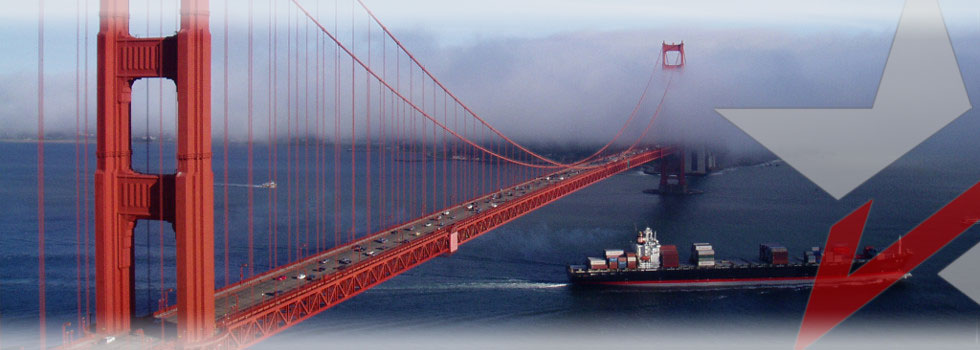
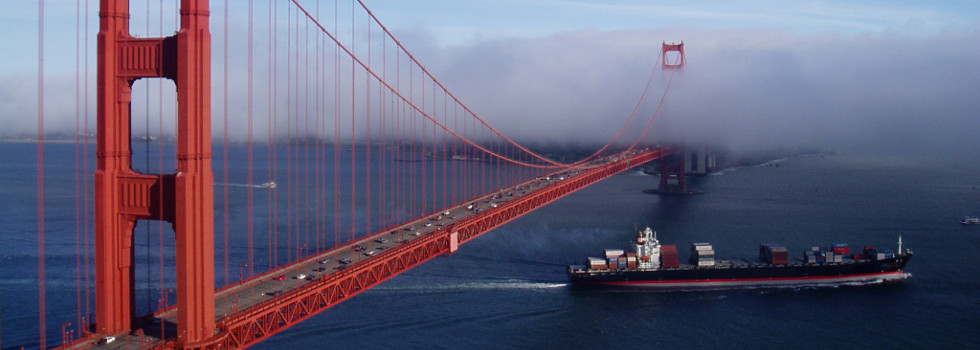
hero box update

Changed region(s): [[0.0, 0.1429, 1.0, 1.0], [0.0, 0.0, 1.0, 0.1143]]

diff --git a/_site/css/bootstrap.min.css b/_site/css/bootstrap.min.css
@@ -6446,7 +6446,8 @@ button.close {
     padding-bottom:20px;
     color:#fff;
     text-align:center;
-    text-shadow:0 1px 2px rgba(0,0,0,.6)
+    text-shadow:0 1px 2px rgba(0,0,0,.6);
+        background-color: #00ff00;
 }
 
 .carousel-caption .btn {
@@ -6458,7 +6459,8 @@ button.close {
     width:30px;
     height:30px;
     margin-top:-15px;
-    font-size:30px
+    font-size:30px;
+        background-color: #00ff00;
 }
 
 .carousel-control .glyphicon-chevron-left,.carousel-control .icon-prev {
@@ -6472,7 +6474,8 @@ button.close {
 .carousel-caption {
     right:20%;
     left:20%;
-    padding-bottom:30px
+    padding-bottom:30px;
+        background-color: #00ff00;
 }
 
 .carousel-indicators {

diff --git a/css/bootstrap.min.css b/css/bootstrap.min.css
@@ -6446,7 +6446,8 @@ button.close {
     padding-bottom:20px;
     color:#fff;
     text-align:center;
-    text-shadow:0 1px 2px rgba(0,0,0,.6)
+    text-shadow:0 1px 2px rgba(0,0,0,.6);
+        background-color: #00ff00;
 }
 
 .carousel-caption .btn {
@@ -6458,7 +6459,8 @@ button.close {
     width:30px;
     height:30px;
     margin-top:-15px;
-    font-size:30px
+    font-size:30px;
+        background-color: #00ff00;
 }
 
 .carousel-control .glyphicon-chevron-left,.carousel-control .icon-prev {
@@ -6472,7 +6474,8 @@ button.close {
 .carousel-caption {
     right:20%;
     left:20%;
-    padding-bottom:30px
+    padding-bottom:30px;
+        background-color: #00ff00;
 }
 
 .carousel-indicators {

diff --git a/_site/index.html b/_site/index.html
@@ -149,7 +149,7 @@
           </div>
             </div>
            <div class="item">
-             <img src="/images/dc.jpg" alt="Washington DC"  />
+             <img src="/images/traingrain.jpg" alt="Grain silo and train"  />
              <div class="carousel-caption">
             <h3 class="trn">They Chose the USA</h3>
             <p class="trn">Learn why business is choosing America to expand and invest</p>

diff --git a/_site/stylesheets/bootstrap.min.css b/_site/stylesheets/bootstrap.min.css
@@ -6455,7 +6455,8 @@ button.close {
     padding-bottom:20px;
     color:#fff;
     text-align:center;
-    text-shadow:0 1px 2px rgba(0,0,0,.6)
+    text-shadow:1px 2px 1px rgba(0,0,0,.9);
+background-color: rgba(0,0,0,0.3) ;
 }
 
 .carousel-caption .btn {

diff --git a/stylesheets/bootstrap.min.css b/stylesheets/bootstrap.min.css
@@ -6455,7 +6455,8 @@ button.close {
     padding-bottom:20px;
     color:#fff;
     text-align:center;
-    text-shadow:0 1px 2px rgba(0,0,0,.6)
+    text-shadow:1px 2px 1px rgba(0,0,0,.9);
+background-color: rgba(0,0,0,0.3) ;
 }
 
 .carousel-caption .btn {

diff --git a/_posts/2015-02-02-events.md b/_posts/2015-02-02-events.md
@@ -16,7 +16,7 @@ These special trips organized by SelectUSA offer state, regional, local, and tri
 *   [**Taiwan**]({{base.url}}/events/selectusa-taiwan-road-show.html) - August 5-6, 2015
 *   [**Nordics**]({{base.url}}/events/selectusa-road-show-nordics.html) - September 14-21, 2015
 
-***
+*** 
 
 ## Trade Shows
 
